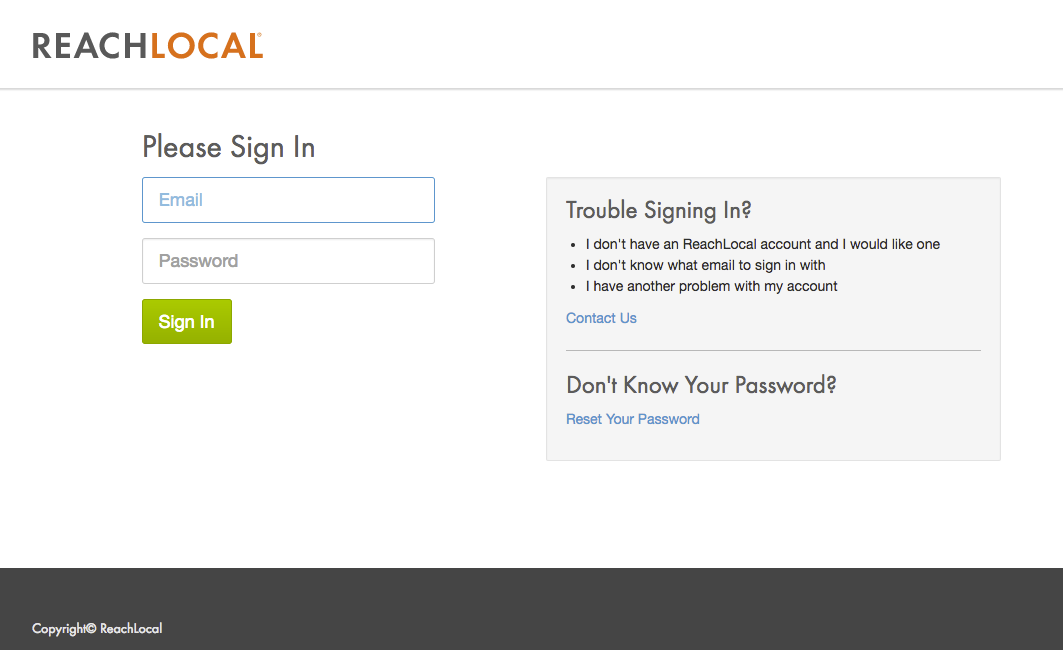
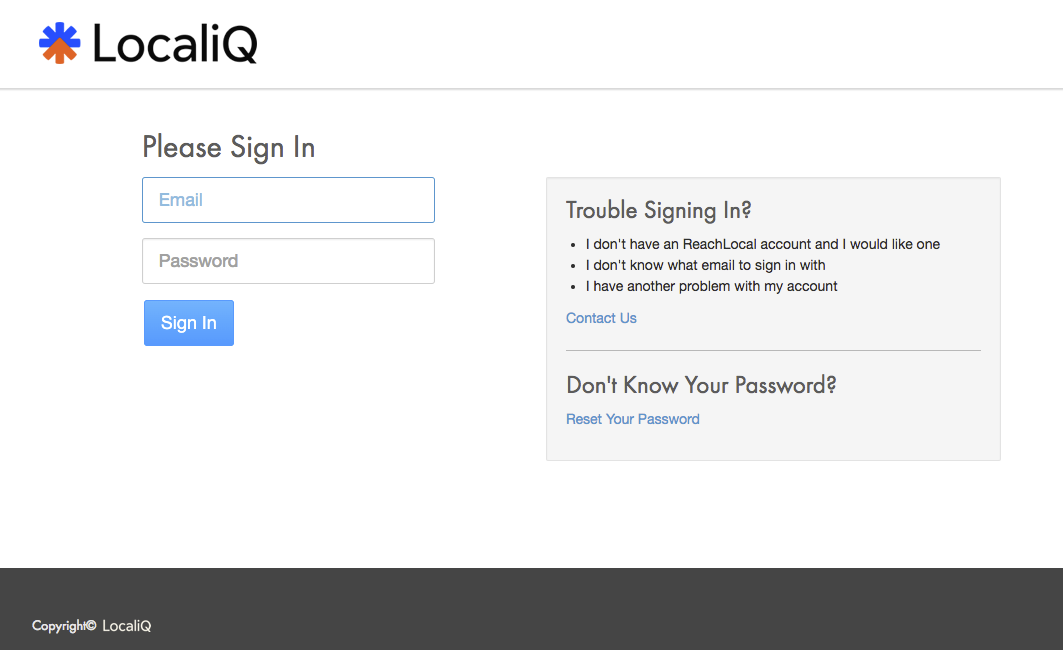
ANALYTICS-4446-update-branding

Changed region(s): [[0.031, 0.0308, 0.2484, 0.0923], [0.1242, 0.4615, 0.2173, 0.5538], [0.031, 0.9538, 0.1552, 0.9846]]

diff --git a/source/stylesheets/_variables.scss b/source/stylesheets/_variables.scss
@@ -38,7 +38,7 @@ $lang-select-border: #000 !default;
 $lang-select-bg: $liq-darkened-black !default;
 $lang-select-active-bg: $examples-bg !default; // feel free to change this to blue or something
 $lang-select-pressed-bg: #111 !default; // color of language tab bg when mouse is pressed
-$main-bg: #F3F7F9 !default;
+$main-bg: #ffffff !default;
 $aside-notice-bg: #8fbcd4 !default;
 $aside-warning-bg: #c97a7e !default;
 $aside-success-bg: #6ac174 !default;

diff --git a/source/stylesheets/screen.css.scss b/source/stylesheets/screen.css.scss
@@ -638,6 +638,6 @@ html, body {
     @extend %header-font;
     border-top: 1px solid #ccc;
     border-bottom: 1px solid #ccc;
-    background-color: #fdfdfd;
+    background-color: #f2f2f2;
     text-align:center;
 }

diff --git a/source/includes/_zapier.md b/source/includes/_zapier.md
@@ -1,36 +1,36 @@
-## LOCALiQ App on Zapier®
+## LocaliQ App on Zapier®
 
-**Summary:** Zapier® is a tool that allows two systems to exchange data without any coding. LOCALiQ makes available a lead app on the Zapier® platform for CRM integration.
+**Summary:** Zapier® is a tool that allows two systems to exchange data without any coding. LocaliQ makes available a lead app on the Zapier® platform for CRM integration.
 
-- The LOCALiQ app on Zapier® is available at no additional cost. Please see note below.
+- The LocaliQ app on Zapier® is available at no additional cost. Please see note below.
 - Advertiser IDs (GMAIDs) are maintained through Campaign Central/Corp and can be found in the general settings of your account settings.
 
 **Note:** There is an additional monthly subscription cost through Zapier®. The cost depends on the number of leads sent per month and the number of leads transmitted between the systems (which Zapier® refers to as "Tasks"). Pricing information for Zapier® can be found [here](https://zapier.com/pricing).
 
-**LOCALiQ App Options:**
+**LocaliQ App Options:**
 
-There are two options under the LOCALiQ App on Zapier®.
+There are two options under the LocaliQ App on Zapier®.
 
  - **Contacts:** This trigger supports integration with CRM products. It delivers contact data (first name, last name, email, phone number, etc.) generated for an advertiser in near real-time.
  - **Contact Interactions:** This trigger supports integration with CRM products. It delivers all interactions (or leads) generated for an advertiser in near real-time. [View Data Details](#zapier_contact_interactions).
 
 **Recommended Usage Pattern:**
 
-This is a self-service solution and it is recommended for the client to use their Zapier® account and to create a Zap between our LOCALiQ leads app and their CRM app. Leads from all their campaigns will flow real time from our platform to their CRM.
+This is a self-service solution and it is recommended for the client to use their Zapier® account and to create a Zap between our LocaliQ leads app and their CRM app. Leads from all their campaigns will flow real time from our platform to their CRM.
 
-As an alternative, if you would like LOCALiQ to create the Zap, maintain, and manage it using our Zapier® account, please reach your account team and request Offer 2095. This service is available at an additional fee.
+As an alternative, if you would like LocaliQ to create the Zap, maintain, and manage it using our Zapier® account, please reach your account team and request Offer 2095. This service is available at an additional fee.
 
-### LOCALiQ Account on Zapier
+### LocaliQ Account on Zapier
 
-**How Do I Connect to My LOCALiQ Account on Zapier?**
+**How Do I Connect to My LocaliQ Account on Zapier?**
 
 1) Log in to your [Zapier account](https://zapier.com/sign-up) or create a new account.
 
 2) Navigate to "My Apps" from the top menu bar.
 
-3) Now click on "Connect a new account..." and search for "LOCALiQ"
+3) Now click on "Connect a new account..." and search for "LocaliQ"
 
-4) Use your LOCALiQ business user credentials to connect your LOCALiQ account to Zapier.
+4) Use your LocaliQ business user credentials to connect your LocaliQ account to Zapier.
 
   - Business User credentials are provided to you by your account team during account creation. These credentials allow you to access the account data through the APIs as well as the Client Center. If you need to check if you have a Business User created or need to reset your password, you can navigate to ReachSecurePay (https://reachsecurepay.com/client/index.php) and enter your email address. If you encounter the error message “Email Address is invalid” or “Email Address not found”, please contact your account management team. If you progress to the login screen, you can select “Create a new password” which will either send you a password reset email or allow you to set your password manually (this will only occur if your password has never been set).
 
@@ -38,13 +38,13 @@ As an alternative, if you would like LOCALiQ to create the Zap, maintain, and ma
 
 5) Once that's done you can start creating an automation! Use a pre-made Zap or create your own with the Zap Editor. Creating a Zap requires no coding knowledge and you'll be walked step-by-step through the setup.
 
-6) Need inspiration? See everything that's possible with [LOCALiQ and Zapier](https://zapier.com/apps/LOCALiQ/integrations).
+6) Need inspiration? See everything that's possible with [LocaliQ and Zapier](https://zapier.com/apps/LocaliQ/integrations).
 
 ### Creating a Zap?
 
 1) Click "Make a New Zap!" button in the upper right-hand corner of the Zapier® Dashboard
 
-2) Pick the LOCALiQ Contacts or Contact Interactions option as your Trigger
+2) Pick the LocaliQ Contacts or Contact Interactions option as your Trigger
 
 3) Choose the Action to map data to the receiving system (this could either be your CRM's app or a POST to an endpoint)
 

diff --git a/source/includes/_api_overview.md b/source/includes/_api_overview.md
@@ -22,19 +22,19 @@
 |Social|[YouTube Campaign Metrics](#youtube_campaign_metrics)|Detailed performance metrics for social campaigns (You Tube)|
 |XMO|[XMO Campaign Metrics](#xmo_metrics)|Detailed performance metrics for Cross Media Optimization campaigns (XOM)|
 |XMO |[XMO Channel Metrics](#xmo_channel)|Detailed performance metrics for Cross Media Optimization channels (XOM)|
-|Traffic Metrics|[Top referrer](#top_referrer)|Information on top referrers for both paid & organic traffic|
+|Traffic Metrics|[Marketing Activity](#marketing_activity)|Basic metrics organized by traffic; paid (LocaliQ & others) and organic|
+|Traffic Metrics|[Top referrers](#top_referrers)|Information on top referrers for both paid & organic traffic|
 |Traffic Metrics|[Total Track](#total_track)|Custom Tracking campaign metrics that have metrics on contacts from tracking phone number(s) and trackable URLs (Web & Phone)|
 |Traffic Metrics|[Web Event Metrics](#web_event_metrics)|Performance metric on pages that was selected as important by the advertiser; CVT or Web Events. Web Events can be pages that generate leads (Qualified web event) or pages that are informational and of value to the client (non-qualified web events)|
 |Contact/Leads|[Contacts](#contacts)|Contact information of every lead. HIPAA compatible; only authorized user will be able to retrieve data from this API. This API can be used for CRM integration purposes.|
 |Contact/Leads|[Contact Interactions](#contact_interactions)|Contact information and interaction details of every lead. This API has ph call recording link, transcripts of emails, forms & chats. HIPAA compatible; only authorized user will be able to retrieve data from this API. This API can be used for CRM integration purposes.|
 |Contact/Leads|[CRM Webhooks](#crm_webhooks)|Self-service integration on Client Center through Edge. This web hook sends real time contact interaction details to receiver. This API can be used for CRM integration purposes.|
-|Lead Metrics|[Marketing Activity](#marketing_activity)|Basic metrics organized by traffic; paid (LOCALiQ & others) and organic|
-|Lead Metrics|[Chat Summary](#chat_summary)|Counts on chats received, types of changes from both LOCALiQ and organic traffic|
-|Lead Metrics|[Lead Details](#lead_details)|Lead (Calls, emails, web events, and chats) metric from all LOCALiQ campaigns. This API also has number of calls broken down by call duration and time of day. This API does not have information on individual leads. Use the Contact and Contact Interactions API to retrieve details like name, transcripts, form information, etc.|
+|Lead Metrics|[Chat Summary](#chat_summary)|Counts on chats received, types of changes from both LocaliQ and organic traffic|
+|Lead Metrics|[Lead Details](#lead_details)|Lead (Calls, emails, web events, and chats) metric from all LocaliQ campaigns. This API also has number of calls broken down by call duration and time of day. This API does not have information on individual leads. Use the Contact and Contact Interactions API to retrieve details like name, transcripts, form information, etc.|
 |Lead Metrics|[LSA Campaigns](#lsa_campaigns)|Local Service Ad Metrics by Campaign and Interval|
 |Lead Metrics|[LSA Campaign Rollup](#lsa_campaign_rollup)|Local Service Ads - Metric rollup by campaign|
 |Lead Metrics|[LSA Lead Details](#lsa_leads)|Local Service Ads - Individual Leads for a date range|
-|First Party Data |[Capture External Events Confirmed Calls](#lcapture_external_event_fpd)|First Party Data - Send LOCALiQ high value call recording URLs|
-|First Party Data |[Capture External Events Chat](#capture_external_event_chat)|Local Service Ads - Send LOCALiQ offline Chats that occur|
+|First Party Data |[Capture External Events Confirmed Calls](#lcapture_external_event_fpd)|First Party Data - Send LocaliQ high value call recording URLs|
+|First Party Data |[Capture External Events Chat](#capture_external_event_chat)|Local Service Ads - Send LocaliQ offline Chats that occur|
 |Custom Integration|FranConnect/Franchise Management Software |If you are interested in this custom integration, please contact your account team (Offer #2095)|
 

diff --git a/source/includes/_identity_advertisers.md b/source/includes/_identity_advertisers.md
@@ -22,13 +22,13 @@ When using the GET index method, the results will be filtered using these parame
 |`gmaid`|No|Restrict results to one or more specific gmaid|
 |`advertiser_id`|No|Restrict results to one or more specific advertiser with the given advertiser id|
 |`business_id[]`|No|Restrict results to advertisers with any one of the given business ids|
-|`cobrand_id`|No|Restrict results to one or more specific advertiser with the given cobrand id. An ID used to uniquely identify a cobrand; given to a collection of of business or BID. This is an internal LOCALiQ data construct used for internal purposes|
+|`cobrand_id`|No|Restrict results to one or more specific advertiser with the given cobrand id. An ID used to uniquely identify a cobrand; given to a collection of of business or BID. This is an internal LocaliQ data construct used for internal purposes|
 |`page_size`|No|Restrict number of advertisers in result <br><b>Default value: 25</b> |
 |`page`|No|Specifies which page of results to return <br><b>Default value: 5000</b>|
 |`active_state`|No|Array of active states that can include 0: Advertiser not active. 1: Advertiser not active, but in grace period. 2: Advertiser is active.|
-|`advertiser_code`|No|Non-unique identifier. This is an internal LOCALiQ data construct used for internal purposes|
-|`business_category`|No|LOCALiQ’s categorization of the client’s business e.g. Home & Home improvement, Real Estate, Automotive-For Sale etc|
-|`business_sub_category`|No|LOCALiQ’s sub categorization within client’s business category. e.g. Real Estate -- Inspection, Real Estate -- Appraisers, Automobile Dealer (General - New), Automobile Dealer (General - Used) etc|
+|`advertiser_code`|No|Non-unique identifier. This is an internal LocaliQ data construct used for internal purposes|
+|`business_category`|No|LocaliQ’s categorization of the client’s business e.g. Home & Home improvement, Real Estate, Automotive-For Sale etc|
+|`business_sub_category`|No|LocaliQ’s sub categorization within client’s business category. e.g. Real Estate -- Inspection, Real Estate -- Appraisers, Automobile Dealer (General - New), Automobile Dealer (General - Used) etc|
 |`advertiser_name`|No|Restrict results to one or more specific advertiser with the given advertiser name|
 |`business_name`|No|Restrict results to one or more specific advertiser with the given business name|
 
@@ -53,7 +53,7 @@ Response Description
 |business_id | String | no | The unique business id that this advertiser belongs to. |
 |hipaa_protected | String | no | Is advertiser protected by hipaa |
 |cobrand_id | String | no | An ID used to  uniquely identify a cobrand. |
-|cobrand_name | String | no | Name given to a collection of of business or BID.  This is an internal LOCALiQ data construct used to aggregate like businesses e.g. partner, Gannett etc. |
+|cobrand_name | String | no | Name given to a collection of of business or BID.  This is an internal LocaliQ data construct used to aggregate like businesses e.g. partner, Gannett etc. |
 |active_state | Integer | no | Active state of advertiser (0 = inactive, 1 = expiring soon, 2 = active)|
 
 #### Example Response

diff --git a/source/includes/_authentication.md b/source/includes/_authentication.md
@@ -10,11 +10,11 @@ Note: Business user’s access to advertiser’s data (GMAIDs) is maintained thr
 
 ## Step 1: Request API Access
 
-The first step is to register your application with Reach Local. Please contact your account manager, DMC or [LOCALiQ API Support](mailto:apiservices@localiq.com) to request API access.
+The first step is to register your application with LocaliQ. Please contact your account manager, DMC or [LocaliQ API Support](mailto:apiservices@localiq.com) to request API access.
 
 You will get a response within 1 business day. The response email will contain a Client Id and a Client Secret token.
 
-* The Client Id token is a public identifier for your application that will differentiate it amongst other Reach Local API integrations.
+* The Client Id token is a public identifier for your application that will differentiate it amongst other LocaliQ API integrations.
 
 * The client secret is a secret known only to the application and the authorization server.
 
@@ -32,7 +32,7 @@ Through a browser initiate the authorization with your Client Id and Client Secr
 
 Please enter your [business user credentials](#business_user_credentials).
 
-The user (login email) being used for API authentication must be a business user in the LOCALiQ platform and have access to the GMAID that will be used in the API
+The user (login email) being used for API authentication must be a business user in the LocaliQ platform and have access to the GMAID that will be used in the API
 
 ![login screen](/images/login.png)
 
@@ -240,7 +240,7 @@ The email address used to obtain the OAuth Access token must be associated with 
 <a name="business_user_credentials"></a>
 ### Business user credentials
 
-The user (login email) being used for API authentication must be a business user in the LOCALiQ platform and have access to the GMAID that will be used in the API. Business User credentials are provided to you by your account team during account creation. These credentials allow you to access the account data through the APIs as well as the Client Center.
+The user (login email) being used for API authentication must be a business user in the LocaliQ platform and have access to the GMAID that will be used in the API. Business User credentials are provided to you by your account team during account creation. These credentials allow you to access the account data through the APIs as well as the Client Center.
 If you need to check if you have a Business User created or need to reset your password, you can navigate to ReachSecurePay (https://reachsecurepay.com/client/index.php) and enter your email address. If you encounter the error message “Email Address is invalid” or “Email Address not found”, please contact your account management team. If you progress to the login screen, you can select “Create a new password” which will either send you a password reset email or allow you to set your password manually (this will only occur if your password has never been set).
 
 <a name="access_to_hippa_data"></a>

diff --git a/source/includes/_identity.md b/source/includes/_identity.md
@@ -25,12 +25,12 @@ Get a list of advertisers filtered by query params. This endpoint also returns a
  
 <internal>
 | gmaid |No|Identifier for advertiser|
-| advertiser_id |No|This is an ID assigned to a client at the time of sale. This is an internal LOCALiQ data construct used for internal purposes|
-| cobrand_id |No|An ID used to uniquely identify a cobrand; given to a collection of of business or BID. This is an internal LOCALiQ data construct used for internal purposes|
+| advertiser_id |No|This is an ID assigned to a client at the time of sale. This is an internal LocaliQ data construct used for internal purposes|
+| cobrand_id |No|An ID used to uniquely identify a cobrand; given to a collection of of business or BID. This is an internal LocaliQ data construct used for internal purposes|
 | exclude_inactive | No | Returns only active advertisers <br><b>Default value: true</b>|
-| advertiser_code |No|Non-unique identifier. This is an internal LOCALiQ data construct used for internal purposes|
-| business_category |No|LOCALiQ’s categorization of the client’s business e.g. Home & Home improvement, Real Estate, Automotive-For Sale etc|
-| business_sub_category |No|LOCALiQ’s sub categorization within client’s business category. e.g. Real Estate -- Inspection, Real Estate -- Appraisers, Automobile Dealer (General - New), Automobile Dealer (General - Used) etc|
+| advertiser_code |No|Non-unique identifier. This is an internal LocaliQ data construct used for internal purposes|
+| business_category |No|LocaliQ’s categorization of the client’s business e.g. Home & Home improvement, Real Estate, Automotive-For Sale etc|
+| business_sub_category |No|LocaliQ’s sub categorization within client’s business category. e.g. Real Estate -- Inspection, Real Estate -- Appraisers, Automobile Dealer (General - New), Automobile Dealer (General - Used) etc|
 | advertiser_name |No|Restrict results to one or more specific advertiser with the given advertiser name|
 | business_name |No|Restrict results to one or more specific advertiser with the given business name|
 </internal>
@@ -283,7 +283,7 @@ business_user_id | Number | The unique business_user id that is the primary user
 privilege_level | Number | privilege level.
 advertiser_id | Number | The advertiser_id for this advertiser.  Not necessarily the same as the numerical portion of the gmaid.
 active_state | Number | 0: Advertiser not active.  1: Advertiser not active, but in grace period.  2: Advertiser is active.
-cobrand_name | Number | Name given to a collection of of business or BID.  This is an internal LOCALiQ data construct used to aggregate like businesses e.g. partner, Gannett etc.
+cobrand_name | Number | Name given to a collection of of business or BID.  This is an internal LocaliQ data construct used to aggregate like businesses e.g. partner, Gannett etc.
 cobrand_id | Number | An ID used to  uniquely identify a cobrand.
 
 **User**

diff --git a/source/includes/_terms_and_conditions.md b/source/includes/_terms_and_conditions.md
@@ -1,7 +1,7 @@
 #Terms And Conditions
 
-Use of any LOCALiQ Application Program Interface(s) (collectively, the “API Service”) is subject to the LOCALiQ Online Marketing Services Terms and Conditions as set forth at www.localiq.com/tc (the “Marketing Services Terms”), including, without limitation, the Client Center Product Terms, and any other applicable agreement between you and LOCALiQ. LOCALiQ provides the API Service as an extension of the Client Center software and reserves the exclusive right to limit or revoke access to the API Service at any time and for any reason.
+Use of any LocaliQ Application Program Interface(s) (collectively, the “API Service”) is subject to the LocaliQ Online Marketing Services Terms and Conditions as set forth at www.localiq.com/tc (the “Marketing Services Terms”), including, without limitation, the Client Center Product Terms, and any other applicable agreement between you and LocaliQ. LocaliQ provides the API Service as an extension of the Client Center software and reserves the exclusive right to limit or revoke access to the API Service at any time and for any reason.
 
-Your download, transfer and/or removal of any information through the API Service is solely at your own risk. LOCALiQ is not responsible for the safety, security or legality of the transmission of your data or of your or any third-party’s platform or system to which you transmit the data. Due to technical processing and transmission requirements of the API Service, your information is transferred unencrypted and may involve (a) transmissions over various networks and (b) changes to conform and adapt to technical requirements of connecting to various networks, systems or devices.
+Your download, transfer and/or removal of any information through the API Service is solely at your own risk. LocaliQ is not responsible for the safety, security or legality of the transmission of your data or of your or any third-party’s platform or system to which you transmit the data. Due to technical processing and transmission requirements of the API Service, your information is transferred unencrypted and may involve (a) transmissions over various networks and (b) changes to conform and adapt to technical requirements of connecting to various networks, systems or devices.
 
 THE API SERVICE IS PROVIDED ON AN "AS IS" AND "AS AVAILABLE" BASIS, WITHOUT ANY WARRANTY OF ANY KIND AND WITHOUT ANY GUARANTEE OF CONTINUOUS OR UNINTERRUPTED AVAILABILITY. IN ADDITION TO THE DISCLAIMERS SET FORTH IN THE MARKETING SERVICES TERMS, LOCALIQ (I) MAKES NO REPRESENTATIONS OR WARRANTIES ABOUT THE ACCURACY OR COMPLETENESS OF ANY INFORMATION PROVIDED TO YOU BY OR ON BEHALF OF LOCALIQ (INCLUDING ANY REPORTING, ANALYTICS AND SIMILAR INFORMATION) OR ANY CONTENT AVAILABLE ON OR THROUGH THE API SERVICE; AND (II) IS NOT RESPONSIBLE FOR ANY ERRORS, DEFECTS OR DOWNTIME CAUSED BY YOUR USE OF THE API SERVICE.

diff --git a/source/includes/_unified_display_campaign_metrics.md b/source/includes/_unified_display_campaign_metrics.md
@@ -8,7 +8,7 @@
 |GET|/client_reports/unified_display/[gmaid]?[query_params]|
 
 
-This is a Display Metrics API that can be used by customers that have Display campaigns from either the ReachLocal or Gannett brand. Data is returned for a GMAID for a specific date range determined by start_date and end_date. Data can also be returned in specified intervals by using the interval_size param. The requirements for these parameters are described below. All metrics are reported at the creative level, and aggregated at the Interval/Campaign level for ReachLocal brand or Line Item level for the Gannett brand. When data is unavailable, corresponding property will not be present in the response. For example, if we do not have data for a creative_type or creative_size, it will not be present in the response.
+This is a Display Metrics API that can be used by customers that have Display campaigns from either the LocaliQ or Gannett brand. Data is returned for a GMAID for a specific date range determined by start_date and end_date. Data can also be returned in specified intervals by using the interval_size param. The requirements for these parameters are described below. All metrics are reported at the creative level, and aggregated at the Interval/Campaign level for LocaliQ brand or Line Item level for the Gannett brand. When data is unavailable, corresponding property will not be present in the response. For example, if we do not have data for a creative_type or creative_size, it will not be present in the response.
 
 **Note:** Please note in some cases, the response might not have all of the creatives used in the campaign. This scenario is apparent when the total metrics for the campaign does not match the sum of the same metrics across every creative within the campaigns.
 

diff --git a/source/includes/_video_activity.md b/source/includes/_video_activity.md
@@ -7,7 +7,7 @@
 |---|---|
 |GET|/client_reports/video_activity/[gmaid]?[query_params]|
 
-This is a Video Activity API that can be used by customers that have display campaigns from either the ReachLocal or Gannett brand. Data is returned for a GMAID for a specific date range determined by start_date and end_date. Data can also be returned in specified intervals by using the interval_size param. The requirements for these parameters are described below. When data is unavailable, corresponding property will not be present in the response. For example, if we do not have data for a creative, it will not be present in the response.
+This is a Video Activity API that can be used by customers that have display campaigns from either the LocaliQ or Gannett brand. Data is returned for a GMAID for a specific date range determined by start_date and end_date. Data can also be returned in specified intervals by using the interval_size param. The requirements for these parameters are described below. When data is unavailable, corresponding property will not be present in the response. For example, if we do not have data for a creative, it will not be present in the response.
 
 ### Parameters&nbsp;
 

diff --git a/source/includes/_contact_interactions.md b/source/includes/_contact_interactions.md
@@ -5,7 +5,7 @@
 
 **Parameters:** It requires the following parameters for a successful response: GMAID (advertiser ID), created_before date and created_after_date. An optional `event_type` parameter can be specified, to limit results to one of `chat`, `call`, or `form`.
 
-**Recommended usage pattern:** A one-time call to the API to fetch all past interactions recorded by the LOCALiQ platform, followed by daily recurrent calls for a 2 -3-day period to fetch new interactions. The results are paginated. If there is no data for a particular attribute, it will not be present in the results.
+**Recommended usage pattern:** A one-time call to the API to fetch all past interactions recorded by the LocaliQ platform, followed by daily recurrent calls for a 2 -3-day period to fetch new interactions. The results are paginated. If there is no data for a particular attribute, it will not be present in the results.
 
 Please note that the contact information in this endpoint is for linking the interactions/leads with the contact. Importing them as contacts into your CRM from this endpoint will cause duplicates.
 

diff --git a/source/includes/_capture_external_event_fpd.md b/source/includes/_capture_external_event_fpd.md
@@ -1,6 +1,6 @@
 ## Capture External Events - Confirmed Calls
 
-The Capture External Event - confirmed calls is used to send call information as First Party Data to LOCALiQ. Please use this endpoint when you want to inform us of the value of the calls **among the ones that were generated by your LOCALiQ campaigns**. It also accepts minimal PII.
+The Capture External Event - confirmed calls is used to send call information as First Party Data to LocaliQ. Please use this endpoint when you want to inform us of the value of the calls **among the ones that were generated by your LocaliQ campaigns**. It also accepts minimal PII.
 
 ### Resource Overview
 
@@ -14,7 +14,7 @@ The Capture External Event - confirmed calls is used to send call information as
 | 200 | Successful
 | 400 | Validation Error
 
-Capture External Event API is a public ReachLocal external interface for vendors to use.
+Capture External Event API is a public LocaliQ external interface for vendors to use.
 This endpoint is used to inform us of confirmed leads for First Party Data
 
 ### Parameters
